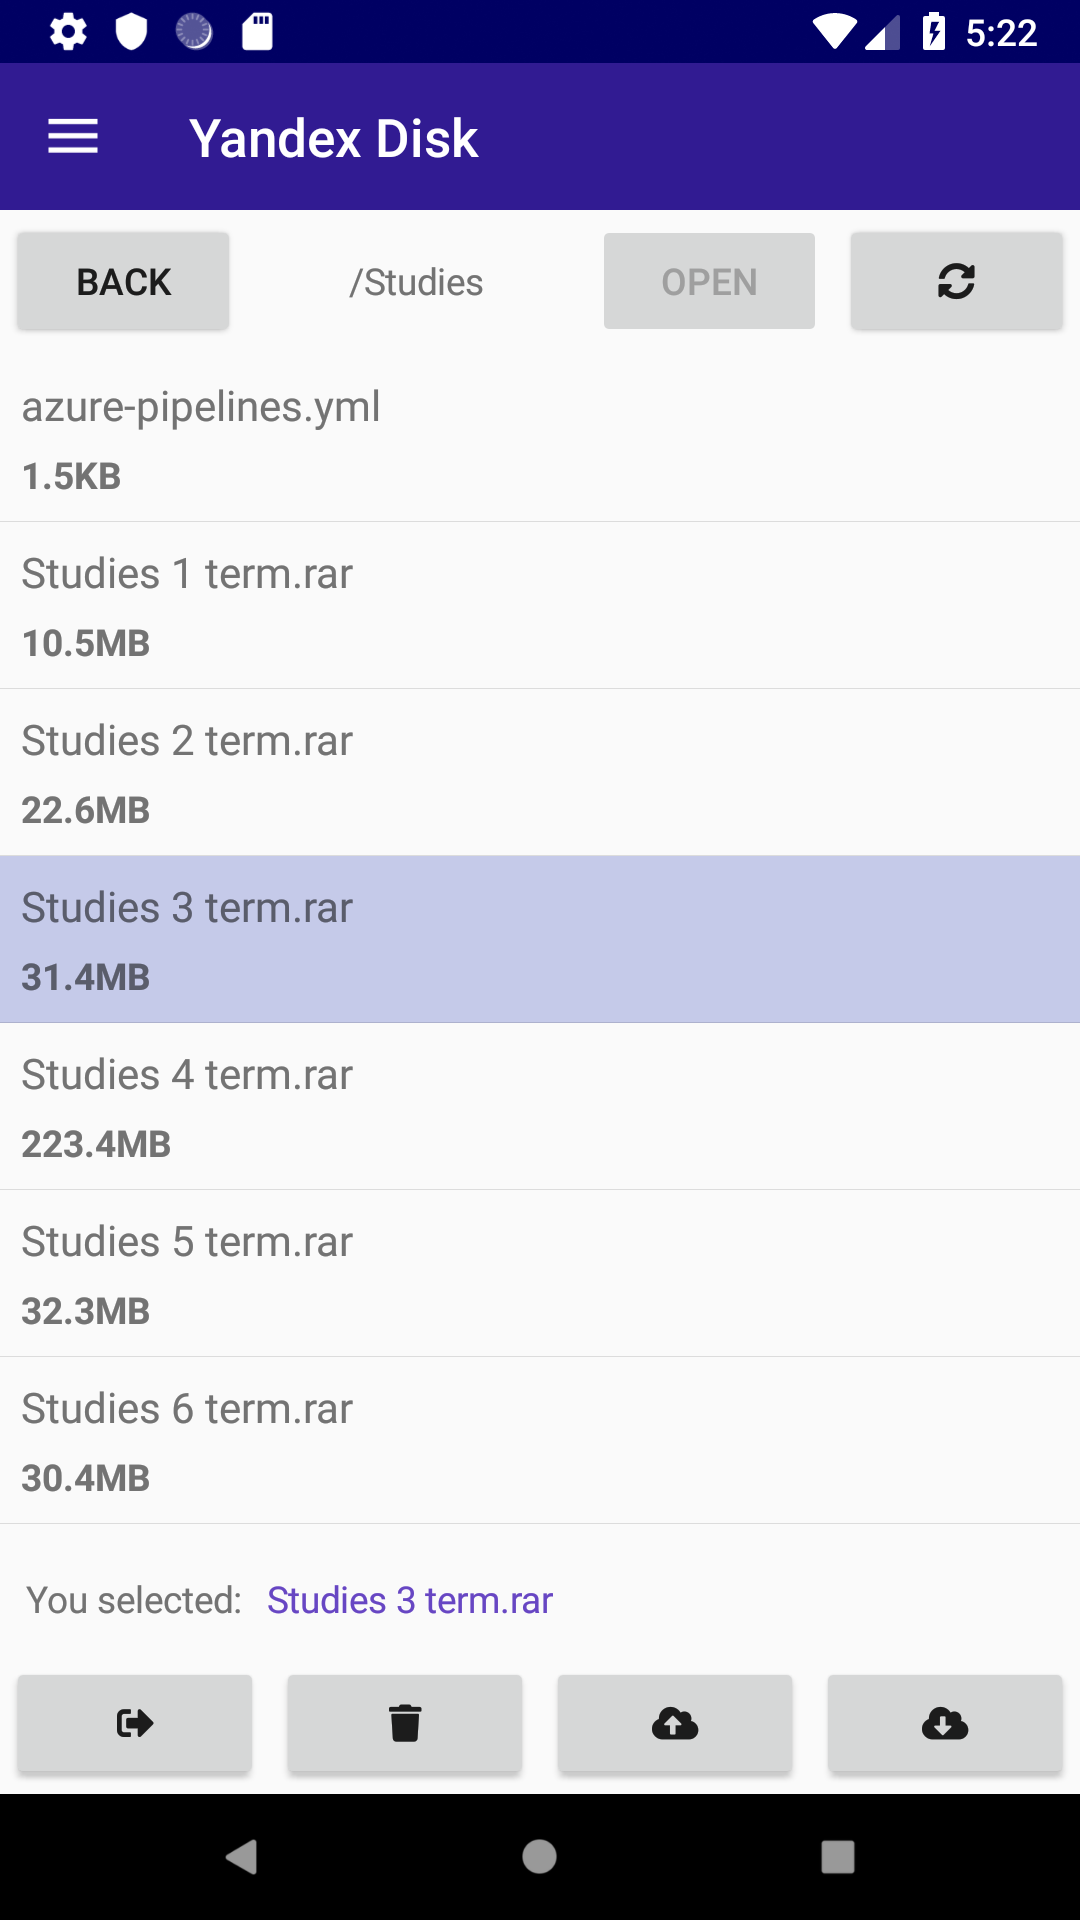
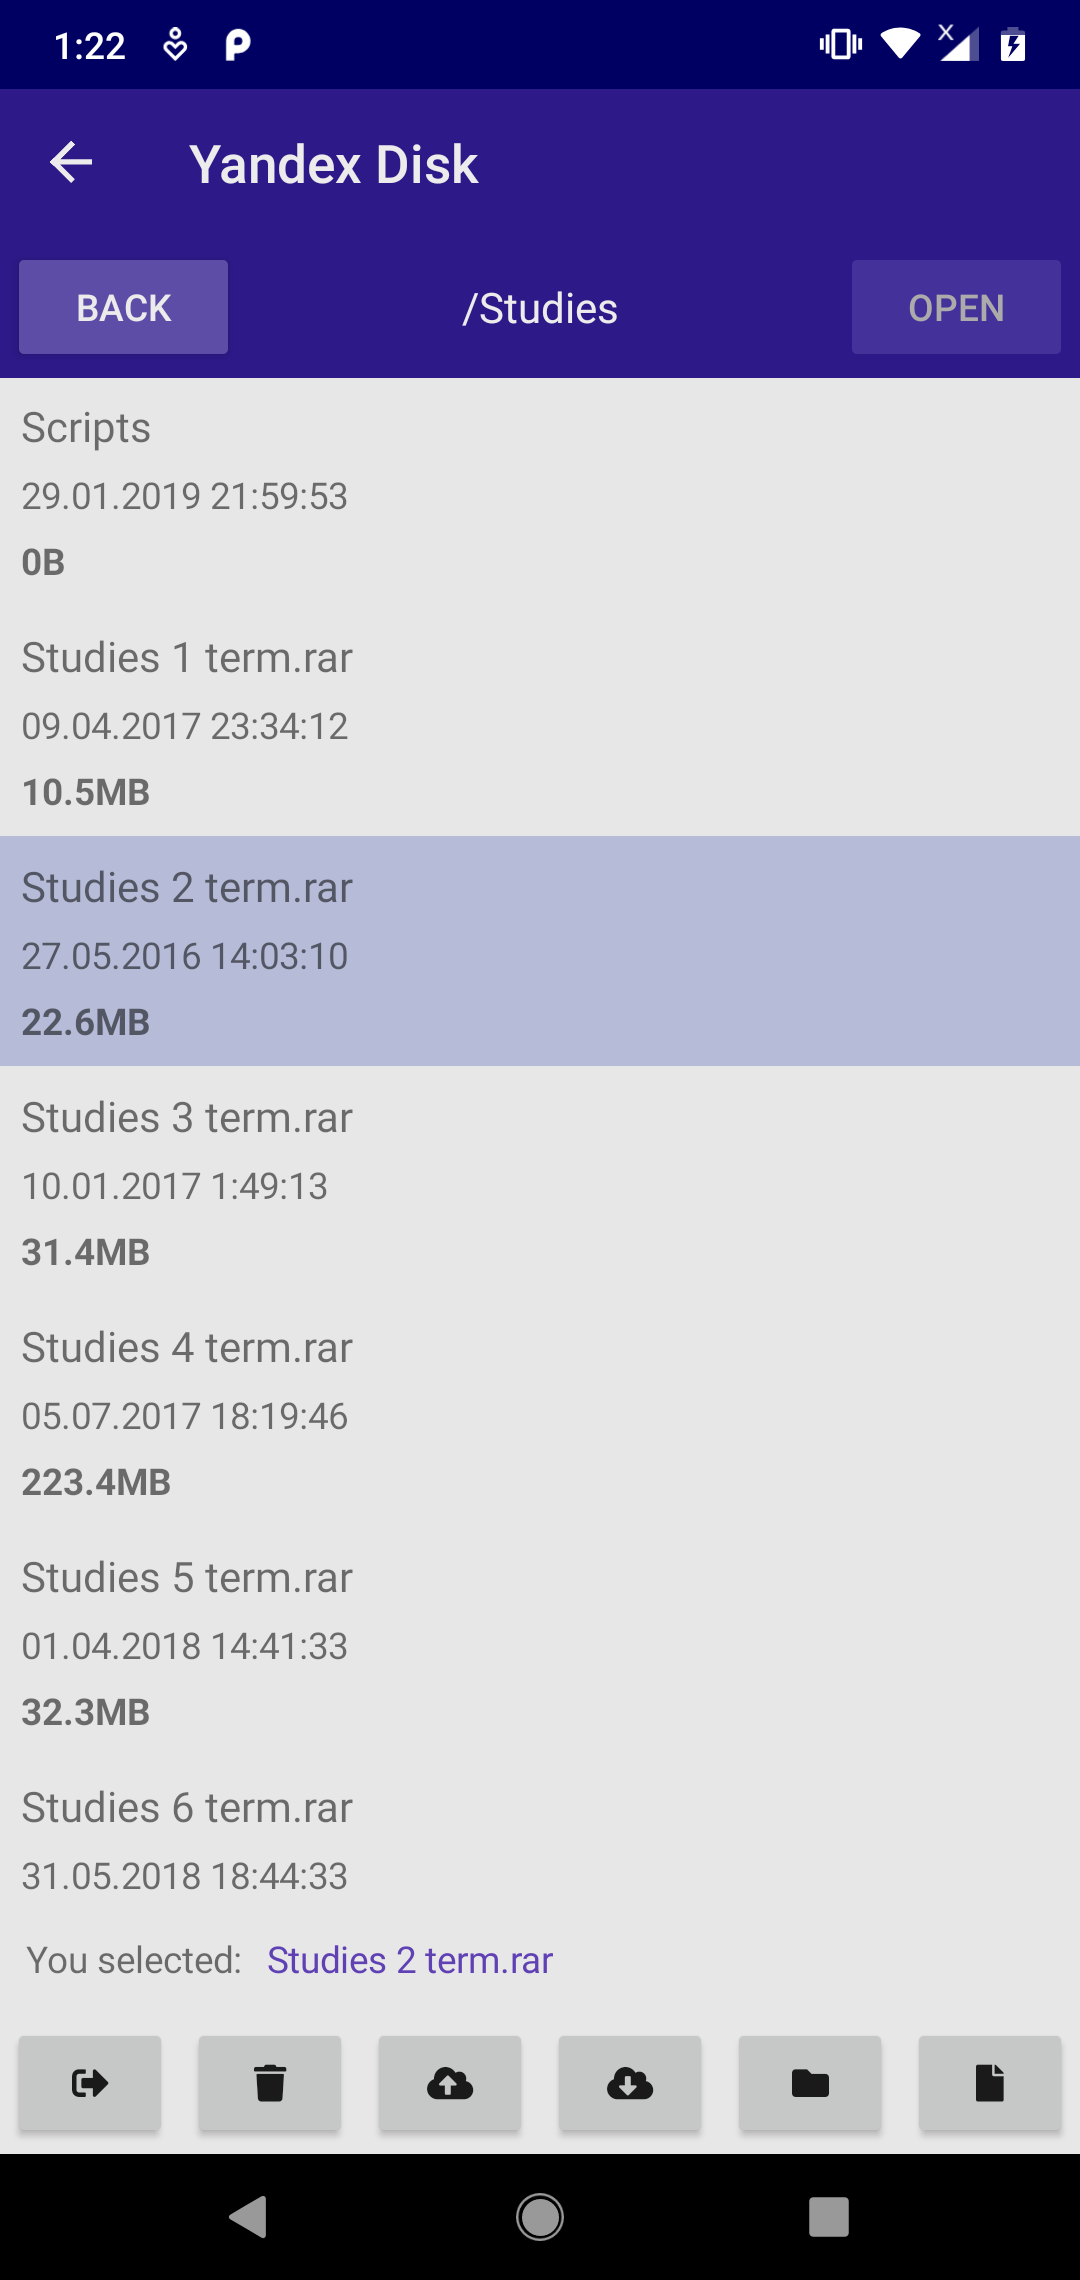
Mobile UI improvements

Changed region(s): [[0.0, 0.2812, 1.0, 1.0], [0.0, 0.0, 1.0, 0.25]]

diff --git a/Camelotia.Presentation.Xamarin/Views/ProviderExplorerView.xaml b/Camelotia.Presentation.Xamarin/Views/ProviderExplorerView.xaml
@@ -7,7 +7,13 @@
     xmlns:vm="clr-namespace:Camelotia.Presentation.Interfaces;assembly=Camelotia.Presentation"
     xmlns:rxui="clr-namespace:ReactiveUI.XamForms;assembly=ReactiveUI.XamForms"
     xmlns:view="clr-namespace:Camelotia.Presentation.Xamarin.Views"
-    xmlns:iconize="clr-namespace:Plugin.Iconize;assembly=Plugin.Iconize">
+    xmlns:iconize="clr-namespace:Plugin.Iconize;assembly=Plugin.Iconize"
+    xmlns:controls="clr-namespace:Camelotia.Presentation.Xamarin.Controls">
+    <ContentPage.ToolbarItems>
+        <iconize:IconToolbarItem 
+            x:Name="RefreshButton"
+            Icon="fas-sync-alt" />
+    </ContentPage.ToolbarItems>
     <ContentPage.Content>
         <Grid>
             <Grid.RowDefinitions>
@@ -16,31 +22,31 @@
                 <RowDefinition Height="Auto" />
                 <RowDefinition Height="Auto" />
             </Grid.RowDefinitions>
-            <Grid Grid.Row="0" Margin="3">
+            <Grid Grid.Row="0" Padding="3" BackgroundColor="#311b92">
                 <Grid.ColumnDefinitions>
                     <ColumnDefinition Width="Auto" />
                     <ColumnDefinition Width="*" />
                     <ColumnDefinition Width="Auto" />
-                    <ColumnDefinition Width="Auto" />
                 </Grid.ColumnDefinitions>
-                <Button Grid.Column="0"
-                        x:Name="BackButton"
-                        Text="Back" />
+                <controls:AccentButton 
+                    Grid.Column="0"
+                    x:Name="BackButton"
+                    Text="Back" />
                 <Label Grid.Column="1"
                        x:Name="PathLabel"
                        HorizontalTextAlignment="Center"
                        VerticalTextAlignment="Center"
                        LineBreakMode="HeadTruncation"
-                       FontSize="14"
+                       TextColor="#ffffff"
+                       FontSize="16"
                        Margin="15, 0" />
-                <Button Grid.Column="2"
-                        x:Name="OpenButton"
-                        Text="Open" />
-                <iconize:IconButton Grid.Column="3"
-                                    x:Name="RefreshButton"
-                                    Text="fas-sync-alt" />
+                <controls:AccentButton 
+                    Grid.Column="2"
+                    x:Name="OpenButton"
+                    Text="Open" />
             </Grid>
             <ListView Grid.Row="1" 
+                      SeparatorVisibility="None"
                       x:Name="FilesListView" 
                       HasUnevenRows="True">
                 <ListView.ItemTemplate>

diff --git a/Camelotia.Presentation.Xamarin/Views/MainMasterView.xaml b/Camelotia.Presentation.Xamarin/Views/MainMasterView.xaml
@@ -6,6 +6,7 @@
     xmlns:rxui="clr-namespace:ReactiveUI.XamForms;assembly=ReactiveUI.XamForms"   
     xmlns:vm="clr-namespace:Camelotia.Presentation.Interfaces;assembly=Camelotia.Presentation"
     xmlns:view="clr-namespace:Camelotia.Presentation.Xamarin.Views"
+    xmlns:controls="clr-namespace:Camelotia.Presentation.Xamarin.Controls"
     x:Class="Camelotia.Presentation.Xamarin.Views.MainMasterView"
     Title="Camelotia">
     <Grid>
@@ -23,12 +24,16 @@
                     TextColor="#ffffff"
                     x:Name="SupportedTypesPicker"
                     Margin="10, 5, 10, 10" />
-            <Button Grid.Column="1"
-                    x:Name="AddButton"
-                    Margin="0, 5, 5, 10"
-                    Text="Add" />
+            <controls:AccentButton 
+                Grid.Column="1"
+                x:Name="AddButton"
+                Margin="0, 5, 5, 10"
+                Text="Add" />
         </Grid>
-        <ListView x:Name="ProvidersView" HasUnevenRows="True" Grid.Row="1">
+        <ListView x:Name="ProvidersView" 
+                  SeparatorVisibility="None"
+                  HasUnevenRows="True" 
+                  Grid.Row="1">
             <ListView.ItemTemplate>
                 <DataTemplate x:DataType="vm:IProviderViewModel">
                     <view:MainProviderView ViewModel="{Binding}" />
@@ -41,9 +46,9 @@
                 <ColumnDefinition Width="*" />
                 <ColumnDefinition Width="*" />
             </Grid.ColumnDefinitions>
-            <Button Grid.Column="0" x:Name="RefreshButton" Text="Refresh" Margin="12" />
-            <Button Grid.Column="1" x:Name="RemoveButton" Text="Remove" Margin="0, 12, 0, 12" />
-            <Button Grid.Column="2" x:Name="UnselectButton" Text="Remove" Margin="12" />
+            <controls:AccentButton Grid.Column="0" x:Name="RefreshButton" Text="Refresh" Margin="10" />
+            <Button Grid.Column="1" x:Name="RemoveButton" Text="Remove" Margin="0, 10, 0, 10" />
+            <Button Grid.Column="2" x:Name="UnselectButton" Text="Unselect" Margin="10" />
         </Grid>
         <ProgressBar Grid.Row="1" Grid.RowSpan="2" x:Name="LoadingBar" />
     </Grid>

diff --git a/Camelotia.Presentation.Xamarin/Views/MainProviderView.xaml b/Camelotia.Presentation.Xamarin/Views/MainProviderView.xaml
@@ -5,15 +5,28 @@
     xmlns:x="http://schemas.microsoft.com/winfx/2009/xaml"
     x:Class="Camelotia.Presentation.Xamarin.Views.MainProviderView"
     xmlns:vm="clr-namespace:Camelotia.Presentation.Interfaces;assembly=Camelotia.Presentation"
-    xmlns:rxui="clr-namespace:ReactiveUI.XamForms;assembly=ReactiveUI.XamForms">
+    xmlns:rxui="clr-namespace:ReactiveUI.XamForms;assembly=ReactiveUI.XamForms"
+    xmlns:iconize="clr-namespace:Plugin.Iconize;assembly=Plugin.Iconize">
     <ViewCell.View>
-        <StackLayout Margin="10">
-            <Label x:Name="NameLabel" FontSize="16" FontAttributes="Bold" />
-            <Label x:Name="DescriptionLabel" FontAttributes="Italic" />
-            <StackLayout Orientation="Horizontal" Margin="0, 5">
-                <Label Text="Size: " />
-                <Label x:Name="SizeLabel" />
+        <Grid>
+            <Grid.ColumnDefinitions>
+                <ColumnDefinition Width="Auto" />
+                <ColumnDefinition Width="*" />
+            </Grid.ColumnDefinitions>
+            <iconize:IconImage
+                Margin="10"
+                HeightRequest="50"
+                Icon="fas-file"
+                IconColor="#311b92"
+                WidthRequest="50" />
+            <StackLayout Margin="0, 10, 10, 10" Grid.Column="1">
+                <Label x:Name="NameLabel" FontSize="16" FontAttributes="Bold" />
+                <Label x:Name="DescriptionLabel" FontAttributes="Italic" />
+                <StackLayout Orientation="Horizontal" Margin="0, 5">
+                    <Label Text="Size: " />
+                    <Label x:Name="SizeLabel" />
+                </StackLayout>
             </StackLayout>
-        </StackLayout>
+        </Grid>
     </ViewCell.View>
 </rxui:ReactiveViewCell>

diff --git a/Camelotia.Presentation.Xamarin/Views/CreateFolderView.xaml b/Camelotia.Presentation.Xamarin/Views/CreateFolderView.xaml
@@ -6,6 +6,7 @@
     x:Class="Camelotia.Presentation.Xamarin.Views.CreateFolderView"
     xmlns:vm="clr-namespace:Camelotia.Presentation.Interfaces;assembly=Camelotia.Presentation"
     xmlns:rxui="clr-namespace:ReactiveUI.XamForms;assembly=ReactiveUI.XamForms"
+    xmlns:controls="clr-namespace:Camelotia.Presentation.Xamarin.Controls"
     Title="Create Folder">
     <ContentPage.Content>
         <StackLayout VerticalOptions="Start">
@@ -21,10 +22,11 @@
                             <ColumnDefinition Width="3*" />
                             <ColumnDefinition Width="2*" />
                         </Grid.ColumnDefinitions>
-                        <Button Grid.Column="0"
-                                x:Name="CreateFolderButton"
-                                Text="Create folder"
-                                Margin="0, 10, 10, 10" />
+                        <controls:AccentButton 
+                            Grid.Column="0"
+                            x:Name="CreateFolderButton"
+                            Text="Create folder"
+                            Margin="0, 10, 10, 10" />
                         <Button Grid.Column="1"
                                 x:Name="CloseButton"
                                 Margin="0, 10"

diff --git a/Camelotia.Presentation.Xamarin/Views/RenameFileView.xaml b/Camelotia.Presentation.Xamarin/Views/RenameFileView.xaml
@@ -6,6 +6,7 @@
     x:Class="Camelotia.Presentation.Xamarin.Views.RenameFileView"
     xmlns:vm="clr-namespace:Camelotia.Presentation.Interfaces;assembly=Camelotia.Presentation"
     xmlns:rxui="clr-namespace:ReactiveUI.XamForms;assembly=ReactiveUI.XamForms"
+    xmlns:controls="clr-namespace:Camelotia.Presentation.Xamarin.Controls"
     Title="Rename File">
     <ContentPage.Content>
         <StackLayout VerticalOptions="Start">
@@ -21,10 +22,11 @@
                             <ColumnDefinition Width="3*" />
                             <ColumnDefinition Width="2*" />
                         </Grid.ColumnDefinitions>
-                        <Button Grid.Column="0"
-                                x:Name="RenameFileButton"
-                                Text="Rename file"
-                                Margin="0, 10, 10, 10" />
+                        <controls:AccentButton 
+                            Grid.Column="0"
+                            x:Name="RenameFileButton"
+                            Text="Rename file"
+                            Margin="0, 10, 10, 10" />
                         <Button Grid.Column="1"
                                 x:Name="CloseButton"
                                 Margin="0, 10"

diff --git a/Camelotia.Presentation.Xamarin/Views/HostAuthView.xaml b/Camelotia.Presentation.Xamarin/Views/HostAuthView.xaml
@@ -5,6 +5,7 @@
     xmlns:x="http://schemas.microsoft.com/winfx/2009/xaml"
     xmlns:vm="clr-namespace:Camelotia.Presentation.Interfaces;assembly=Camelotia.Presentation"
     xmlns:rxui="clr-namespace:ReactiveUI.XamForms;assembly=ReactiveUI.XamForms"
+    xmlns:controls="clr-namespace:Camelotia.Presentation.Xamarin.Controls"
     x:Class="Camelotia.Presentation.Xamarin.Views.HostAuthView"
     Title="Authentication On Remote Host">
     <ContentPage.Content>
@@ -27,7 +28,7 @@
                     <Entry x:Name="LoginEntry" />
                     <Label Text="Please, enter password:" Margin="0, 5, 0, 0" />
                     <Entry x:Name="PasswordEntry" IsPassword="True" />
-                    <Button x:Name="LoginButton" Text="Login" />
+                    <controls:AccentButton x:Name="LoginButton" Text="Login" />
                 </StackLayout>
             </Frame>
         </StackLayout>

diff --git a/Camelotia.Presentation.Xamarin/Views/DirectAuthView.xaml b/Camelotia.Presentation.Xamarin/Views/DirectAuthView.xaml
@@ -7,6 +7,7 @@
     xmlns:vm="clr-namespace:Camelotia.Presentation.Interfaces;assembly=Camelotia.Presentation"
     xmlns:rxui="clr-namespace:ReactiveUI.XamForms;assembly=ReactiveUI.XamForms"
     xmlns:view="clr-namespace:Camelotia.Presentation.Xamarin.Views"
+    xmlns:controls="clr-namespace:Camelotia.Presentation.Xamarin.Controls"
     Title="Password Authorization">
     <ContentPage.Content>
         <StackLayout VerticalOptions="Start">
@@ -19,7 +20,7 @@
                     <Entry x:Name="LoginEntry" />
                     <Label Text="Please, enter password:" Margin="0, 5, 0, 0" />
                     <Entry x:Name="PasswordEntry" IsPassword="True" />
-                    <Button x:Name="LoginButton" Text="Login" />
+                    <controls:AccentButton x:Name="LoginButton" Text="Login" />
                 </StackLayout>
             </Frame>
         </StackLayout>

diff --git a/Camelotia.Presentation.Xamarin/Views/OAuthView.xaml b/Camelotia.Presentation.Xamarin/Views/OAuthView.xaml
@@ -7,6 +7,7 @@
     xmlns:vm="clr-namespace:Camelotia.Presentation.Interfaces;assembly=Camelotia.Presentation"
     xmlns:rxui="clr-namespace:ReactiveUI.XamForms;assembly=ReactiveUI.XamForms"
     xmlns:view="clr-namespace:Camelotia.Presentation.Xamarin.Views"
+    xmlns:controls="clr-namespace:Camelotia.Presentation.Xamarin.Controls"
     Title="OAuth Authorization">
     <ContentPage.Content>
         <Frame VerticalOptions="StartAndExpand" 
@@ -14,7 +15,7 @@
                Margin="15">
             <StackLayout>
                 <Label Text="OAuth Authorization" />
-                <Button x:Name="LoginButton" Text="Authorize" />
+                <controls:AccentButton x:Name="LoginButton" Text="Authorize" />
             </StackLayout>
         </Frame>
     </ContentPage.Content>

diff --git a/Camelotia.Presentation.Xamarin/Views/MainView.xaml b/Camelotia.Presentation.Xamarin/Views/MainView.xaml
@@ -5,5 +5,6 @@
     xmlns:x="http://schemas.microsoft.com/winfx/2009/xaml"
     x:Class="Camelotia.Presentation.Xamarin.Views.MainView"
     xmlns:rxui="clr-namespace:ReactiveUI.XamForms;assembly=ReactiveUI.XamForms"   
-    xmlns:vm="clr-namespace:Camelotia.Presentation.Interfaces;assembly=Camelotia.Presentation">
+    xmlns:vm="clr-namespace:Camelotia.Presentation.Interfaces;assembly=Camelotia.Presentation"
+    Title="Loading...">
 </rxui:ReactiveNavigationPage>

diff --git a/Camelotia.Presentation.Xamarin/Views/ProviderExplorerFileView.xaml b/Camelotia.Presentation.Xamarin/Views/ProviderExplorerFileView.xaml
@@ -9,6 +9,7 @@
     <ViewCell.View>
         <StackLayout Margin="8" Grid.Column="0">
             <Label x:Name="NameLabel" FontSize="16" />
+            <Label x:Name="ModifiedLabel" />
             <Label x:Name="SizeLabel" FontAttributes="Bold"/>
         </StackLayout>
     </ViewCell.View>

diff --git a/Camelotia.Presentation.Xamarin.Android/Renderers/AccentButtonRenderer.cs b/Camelotia.Presentation.Xamarin.Android/Renderers/AccentButtonRenderer.cs
@@ -1,0 +1,55 @@
+using System.ComponentModel;
+using Android.Content;
+using Android.Graphics;
+using Camelotia.Presentation.Xamarin.Controls;
+using Camelotia.Presentation.Xamarin.Droid.Renderers;
+using Xamarin.Forms;
+using Xamarin.Forms.Platform.Android;
+using Color = Xamarin.Forms.Color;
+using VisualElement = Xamarin.Forms.VisualElement;
+
+[assembly: ExportRenderer(typeof(AccentButton), typeof(AccentButtonRenderer))]
+namespace Camelotia.Presentation.Xamarin.Droid.Renderers
+{
+    public class AccentButtonRenderer : ButtonRenderer
+    {
+        public AccentButtonRenderer(Context context) : base(context) {  }
+
+        protected override void OnElementChanged(ElementChangedEventArgs<Button> e)
+        {
+            base.OnElementChanged(e);
+            if (e.NewElement is AccentButton control)
+                ApplyColors(control);
+        }
+
+        protected override void OnElementPropertyChanged(object sender, PropertyChangedEventArgs args)
+        {
+            base.OnElementPropertyChanged(sender, args);
+            if (args.PropertyName == nameof(Button.IsEnabled))
+                ApplyColors((AccentButton)sender);
+        }
+
+        private void ApplyColors(VisualElement control)
+        {
+            var background = GetBackgroundColor(control).ToAndroid();
+            Control.Background.SetColorFilter(background, PorterDuff.Mode.Src);
+
+            var foreground = GetForegroundColor(control).ToAndroid();
+            Control.SetTextColor(foreground);
+        }
+
+        private static Color GetBackgroundColor(VisualElement control)
+        {
+            return control.IsEnabled
+                ? Color.FromRgb(100, 83, 179)
+                : Color.FromRgb(73, 53, 165);
+        }
+
+        private static Color GetForegroundColor(VisualElement control)
+        {
+            return control.IsEnabled 
+                ? Color.FromRgb(254, 254, 254)
+                : Color.FromRgb(185, 185, 185);
+        }
+    }
+}

diff --git a/Camelotia.Presentation.Xamarin/Views/ProviderExplorerFileView.xaml.cs b/Camelotia.Presentation.Xamarin/Views/ProviderExplorerFileView.xaml.cs
@@ -16,6 +16,8 @@ namespace Camelotia.Presentation.Xamarin.Views
             {
                 this.OneWayBind(ViewModel, x => x.Name, x => x.NameLabel.Text)
                     .DisposeWith(disposables);
+                this.OneWayBind(ViewModel, x => x.Modified, x => x.ModifiedLabel.Text)
+                    .DisposeWith(disposables);
                 this.OneWayBind(ViewModel, x => x.Size, x => x.SizeLabel.Text)
                     .DisposeWith(disposables);
             });
